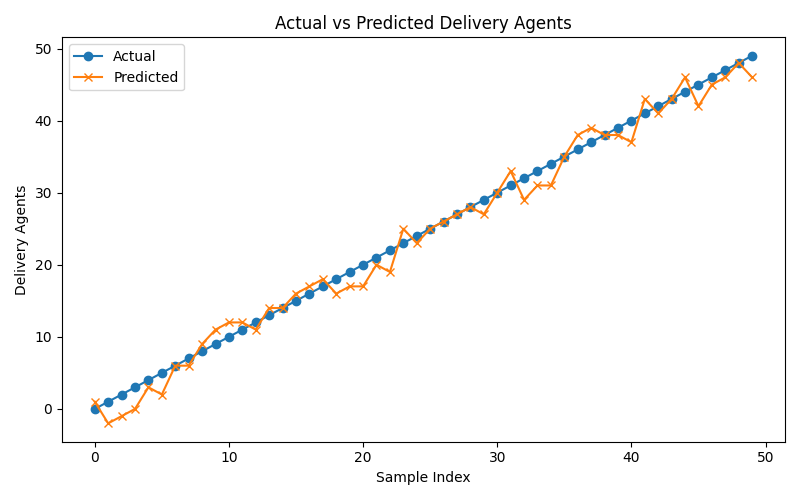
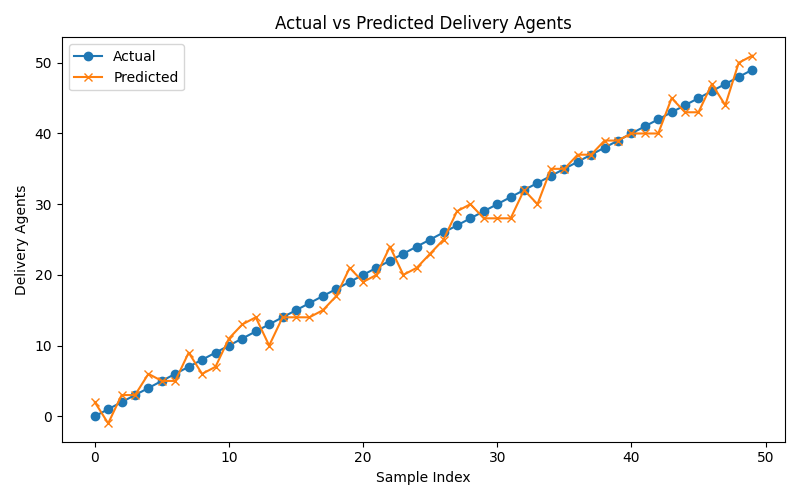
changes

diff --git a/Python/templates/form.html b/Python/templates/form.html
@@ -199,32 +199,8 @@
                                         <option value="5">5</option>
                                         <option value="6">6</option>
                                         <option value="7">7</option>
-                                        <option value="8">8</option>
-                                        <option value="9">9</option>
-                                        <option value="10">10</option>
-                                        <option value="11">11</option>
-                                        <option value="12">12</option>
-                                        <option value="13">13</option>
-                                        <option value="14">14</option>
-                                        <option value="15">15</option>
-                                        <option value="16">16</option>
-                                        <option value="17">17</option>
-                                        <option value="18">18</option>
-                                        <option value="19">19</option>
-                                        <option value="20">20</option>
-                                        <option value="21">21</option>
-                                        <option value="22">22</option>
-                                        <option value="23">23</option>
-                                        <option value="24">24</option>
-                                        <option value="25">25</option>
-                                        <option value="26">26</option>
-                                        <option value="27">27</option>
-                                        <option value="28">28</option>
-                                        <option value="29">29</option>
-                                        <option value="30">30</option>
-                                        <option value="31">31</option>
                                     </select>
-                                    <span class="note">Use the numeric day value from your dataset.</span>
+                                    <span class="note">Enter the day number 1-7 for the first week of June in the dataset.</span>
                                 </label>
                                 <label>Day of Week
                                     <select name="Day" required>

diff --git a/Python/app.py b/Python/app.py
@@ -38,9 +38,32 @@ def predict():
                 "Traffic Level_Medium", "Order Type_Food", "Order Type_Grocery",
                 "Area Type_Urban"
             ]
+            # Convert form input into the encoded values used during training.
+            date_input = int(request.form.get("Date"))
+            if 1 <= date_input <= 7:
+                encoded_date = date_input - 1
+            elif 0 <= date_input <= 6:
+                encoded_date = date_input
+            else:
+                raise ValueError("Date must be between 1 and 7 for this dataset.")
+
+            day_input = int(request.form.get("Day"))
+            day_mapping = {
+                1: 1,  # Monday
+                2: 5,  # Tuesday
+                3: 6,  # Wednesday
+                4: 4,  # Thursday
+                5: 0,  # Friday
+                6: 2,  # Saturday
+                7: 3   # Sunday
+            }
+            if day_input not in day_mapping:
+                raise ValueError("Day must be 1-7, corresponding to Monday-Sunday.")
+            encoded_day = day_mapping[day_input]
+
             sample_values = [
-                int(request.form.get("Date")),
-                int(request.form.get("Day")),
+                encoded_date,
+                encoded_day,
                 int(request.form.get("Hour")),
                 float(request.form.get("Temperature")),
                 int(request.form.get("Rain")),
